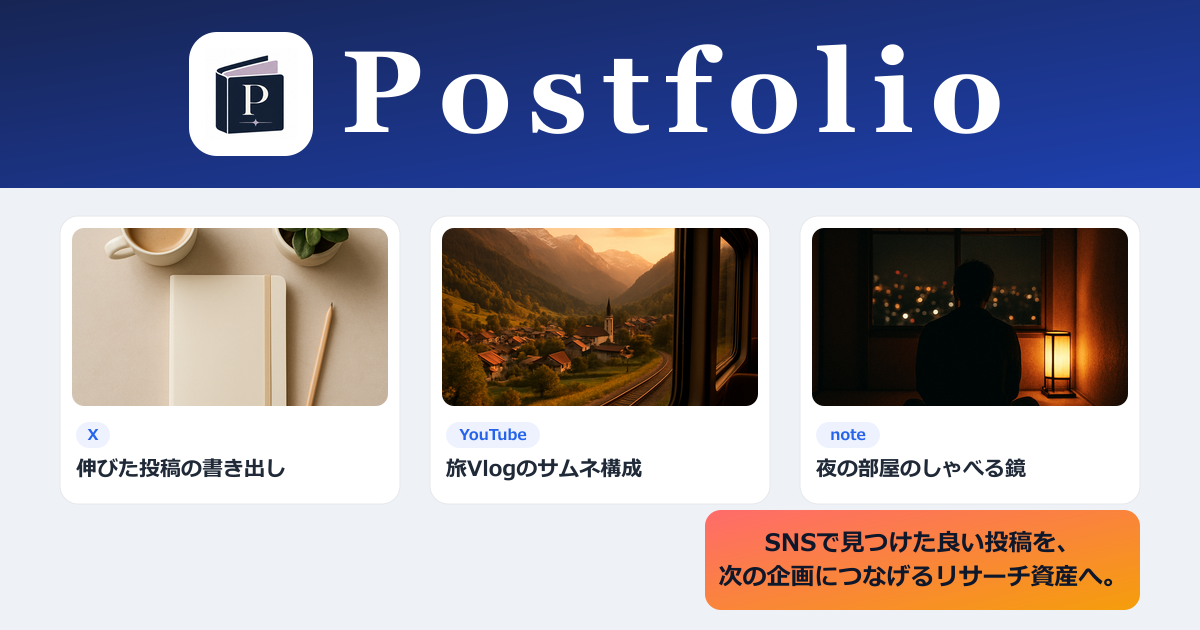
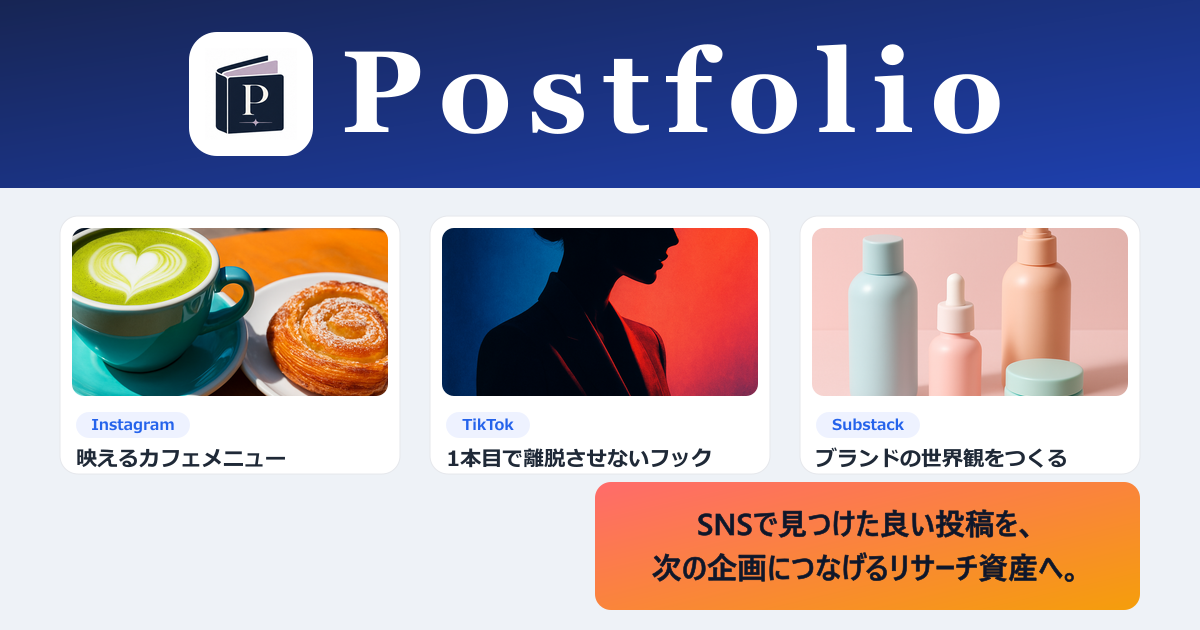
Enlarge OG main copy with a bolder font; bump OG cache version to 3

Changed region(s): [[0.37, 0.3619, 0.9558, 0.9952], [0.0617, 0.3619, 0.3392, 0.754]]

diff --git a/src/app/layout.tsx b/src/app/layout.tsx
@@ -30,13 +30,13 @@ export const metadata: Metadata = {
     title: ogTitle,
     description: ogDescription,
     locale: "ja_JP",
-    images: [{ url: "/og-1.png?v=2", width: 1200, height: 630, alt: "Postfolio" }],
+    images: [{ url: "/og-1.png?v=3", width: 1200, height: 630, alt: "Postfolio" }],
   },
   twitter: {
     card: "summary_large_image",
     title: ogTitle,
     description: ogDescription,
-    images: ["/og-1.png?v=2"],
+    images: ["/og-1.png?v=3"],
   },
 };
 

diff --git a/src/app/welcome/page.tsx b/src/app/welcome/page.tsx
@@ -5,7 +5,7 @@ import { getOptionalCurrentUser } from "@/lib/user";
 const OG_VARIANTS = 6;
 // Bump when the og-*.png designs change so crawlers (esp. X, which caches images
 // by URL) fetch the new artwork instead of a stale cached copy.
-const OG_VERSION = "2";
+const OG_VERSION = "3";
 
 // Deterministic pick so the same share URL always resolves to the same card
 // (crawlers re-fetch the page; a stable og:image is required for X to build the

diff --git a/src/components/landing-v0/share-buttons.tsx b/src/components/landing-v0/share-buttons.tsx
@@ -15,7 +15,7 @@ function baseUrl() {
 
 // Bump `ogv` alongside the og-*.png design (and OG_VERSION in welcome/page.tsx)
 // so X treats the shared URL as new and re-scrapes the refreshed card art.
-const OG_SHARE_VERSION = "2";
+const OG_SHARE_VERSION = "3";
 
 function lpUrl(source?: string) {
   const base = `${baseUrl()}/welcome`;
